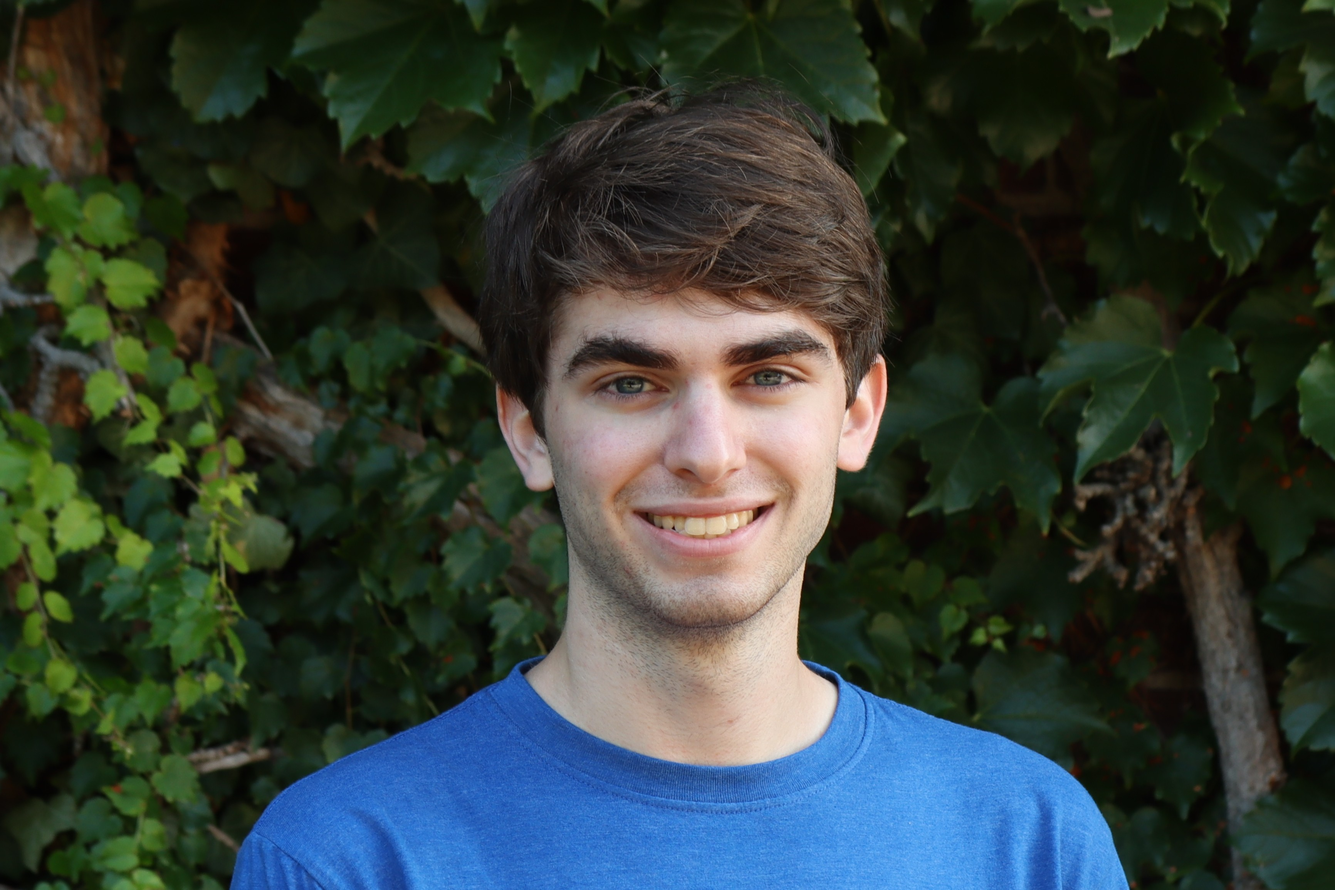
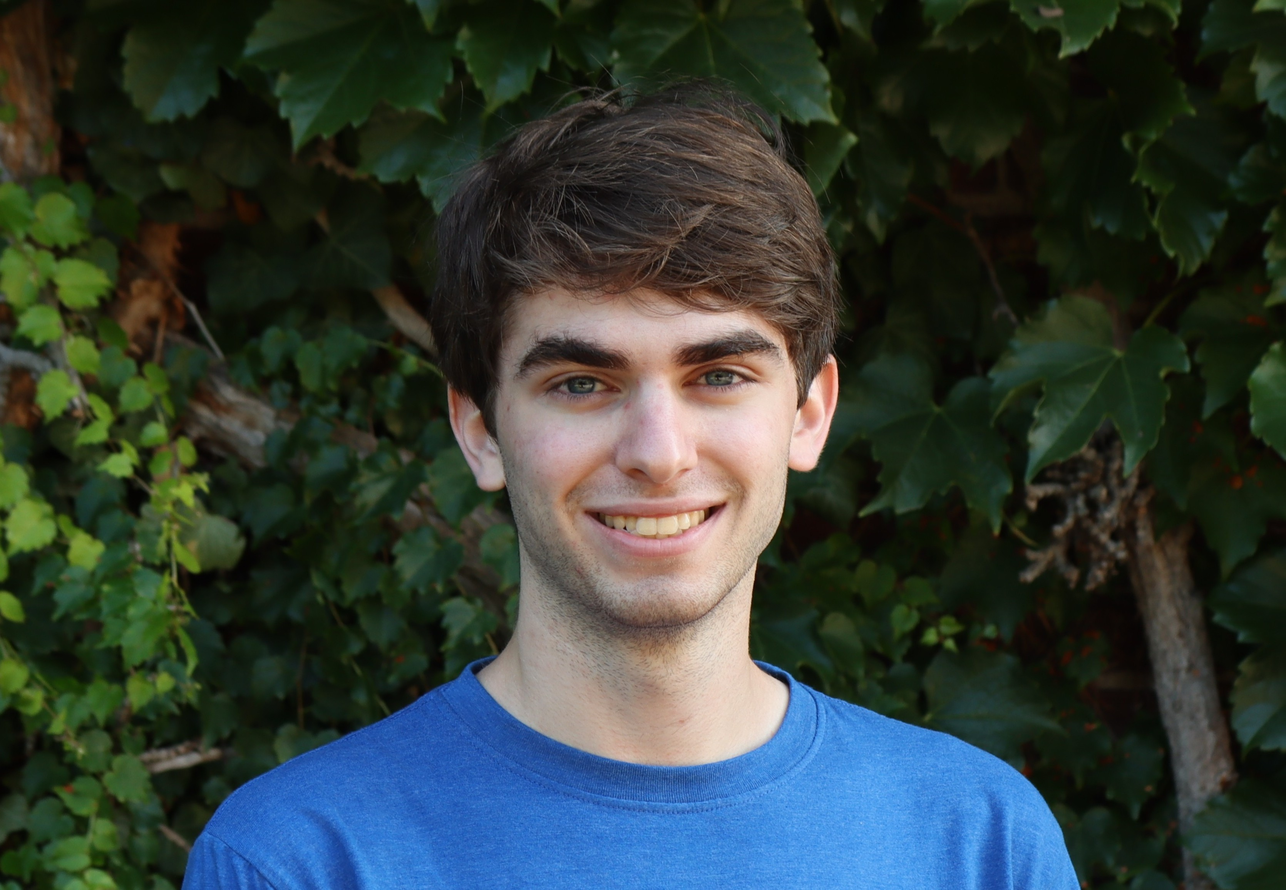
Update stuff

diff --git a/index.html b/index.html
@@ -16,8 +16,8 @@
 <header class="hero">
   <div class="text">
     <h1>Hi I&rsquo;m <span class="name">Sam.</span></h1>
-    <p class="lede">I build and test the electronics and data systems that show engineers what a vehicle is actually doing.</p>
-    <p class="bio">Mechanical engineering student with an electrical engineering minor at the University of Rochester. I lead electronics and data acquisition for our Baja SAE team, and I spent last summer on the vehicle integration and test team at Aurora Innovation.</p>
+    <p class="lede">I build and test electronics and hardware.</p>
+    <p class="bio">I'm a mechanical engineering student at the University of Rochester. I spent last summer on the Vehicle Integration Test & Evaluation team at Aurora Innovation. I'm currently the Electronics and Data Acquisition lead for University of Rochester Yellowjacket Racing.</p>
     <div class="actions">
       <a class="icon" href="https://github.com/Vespertilo" aria-label="GitHub" target="_blank" rel="noopener">
         <svg viewBox="0 0 16 16" aria-hidden="true"><path d="M8 0C3.58 0 0 3.58 0 8c0 3.54 2.29 6.53 5.47 7.59.4.07.55-.17.55-.38 0-.19-.01-.82-.01-1.49-2.01.37-2.53-.49-2.69-.94-.09-.23-.48-.94-.82-1.13-.28-.15-.68-.52-.01-.53.63-.01 1.08.58 1.23.82.72 1.21 1.87.87 2.33.66.07-.52.28-.87.51-1.07-1.78-.2-3.64-.89-3.64-3.95 0-.87.31-1.59.82-2.15-.08-.2-.36-1.02.08-2.12 0 0 .67-.21 2.2.82.64-.18 1.32-.27 2-.27.68 0 1.36.09 2 .27 1.53-1.04 2.2-.82 2.2-.82.44 1.1.16 1.92.08 2.12.51.56.82 1.27.82 2.15 0 3.07-1.87 3.75-3.65 3.95.29.25.54.73.54 1.48 0 1.07-.01 1.93-.01 2.2 0 .21.15.46.55.38A8.013 8.013 0 0016 8c0-4.42-3.58-8-8-8z"/></svg>
@@ -79,6 +79,16 @@ const PROJECTS = [
     text: 'I took a CVT data acquisition system from a breadboard on a test bench to a custom KiCad PCB over three design iterations. The final board ran for over two hours. The telemetry let me build MATLAB tools to optimize the transmission shift curve, and the system now supports our full vehicle dynamic model.',
     tags: 'Teensy 4.1, C++, KiCad, MATLAB',
     imgs: ['cvt-daq-1.jpg','cvt-daq-2.jpg','cvt-daq-3.jpg'] },
+  { title: 'Vehicle Integration Test & Evaluation at Aurora',
+    result: 'Saved the team 20+ hours per testing cycle',
+    text: 'On the vehicle integration test and evaluation team for the Aurora Driver 2.0 release, I created/updated 30+ test plans, validated results from on-track testing, and built tools to speed up post-test analysis. I also moved a subset of track tests into an offline simulation environment to cut down on time on the track.',
+    tags: 'Test planning, data analysis, simulation',
+    imgs: ['aurora-1.jpg','aurora-2.jpg'] },
+  { title: 'Wheel Force Transducer Testing',
+    result: 'Measured real wheel load cases in on track tests',
+    text: 'I set up and helped lead a testing cycle with a Michigan Scientific Wheel Force Transducer to measure the forces and moments on a wheel. We collected data from four linear potentiometers on the shocks at the same time, which gave us a second measurement to validate our load cases against.',
+    tags: 'Wheel force transducer, linear potentiometers, data validation',
+    imgs: ['wft-1.jpg','wft-2.jpg','wft-3.jpg'] },
   { title: 'Modular CAN Bus Data Acquisition',
     result: 'In development as subsystem lead',
     text: 'A modular system on custom STM32 hardware, built to survive vibration, mud, moisture, and EMI. I chose CAN bus for noise resistance and am designing the enclosures to the IP67 waterproof standard.',
@@ -89,16 +99,6 @@ const PROJECTS = [
     text: 'My subsystem owns the steering wheel this year. It holds a 4.3\u2033 display showing live data to the driver and a custom quick release. I designed it in NX and analyzed it for the loads the driver and the car produce on track.',
     tags: 'Siemens NX, structural analysis, embedded display',
     imgs: ['steering-wheel-1.jpg','steering-wheel-2.jpg','steering-wheel-3.jpg'] },
-  { title: 'Wheel Force Transducer Testing',
-    result: 'Measured real wheel loads over obstacles',
-    text: 'I set up and helped lead a testing cycle with a Michigan Scientific Wheel Force Transducer to measure the forces and moments on a wheel. We collected data from four linear potentiometers on the shocks at the same time, which gave us a second measurement to validate our load cases against.',
-    tags: 'Wheel force transducer, linear potentiometers, data validation',
-    imgs: ['wft-1.jpg','wft-2.jpg','wft-3.jpg'] },
-  { title: 'Vehicle Integration Test & Evaluation at Aurora',
-    result: 'Saved the team 20+ hours per testing cycle',
-    text: 'On the vehicle integration test and evaluation team for the Aurora Driver 2.0 release, I created/updated 30+ test plans, validated results from on-track testing, and built tools to speed up post-test analysis. I also moved a subset of track tests into an offline simulation environment to cut down on time on the track.',
-    tags: 'Test planning, data analysis, simulation',
-    imgs: ['aurora-1.jpg','aurora-2.jpg'] },
   { title: 'Model rocket',
     result: '1,500 ft apogee at Mach 0.6',
     text: 'Led a launch that reached 1,500 feet at Mach 0.6. I calculated the aerodynamic forces for stability, designed the fin can and nose cone in Fusion 360 and 3D printed them, wired a fail-safe launch controller, and built a portable launch pad.',
